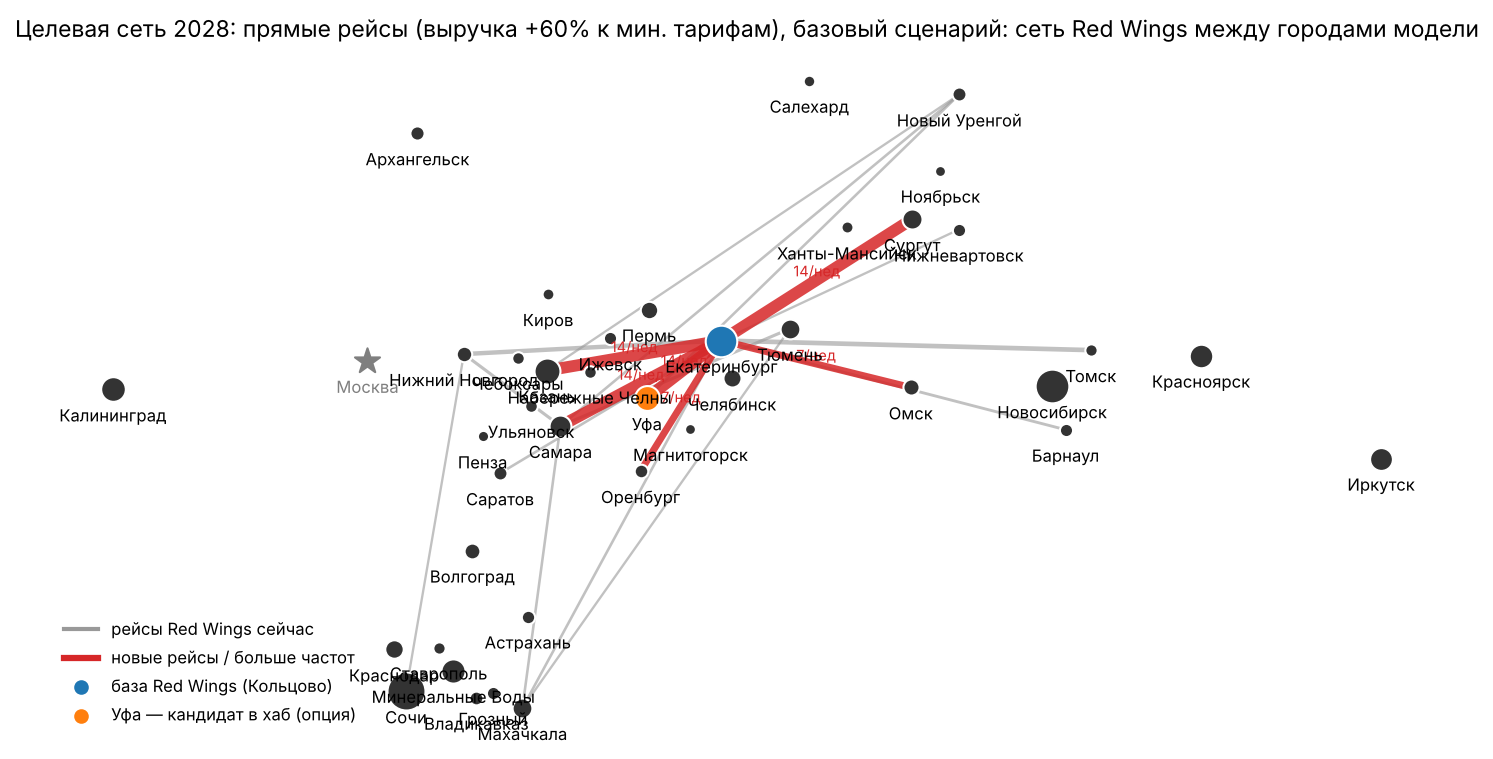
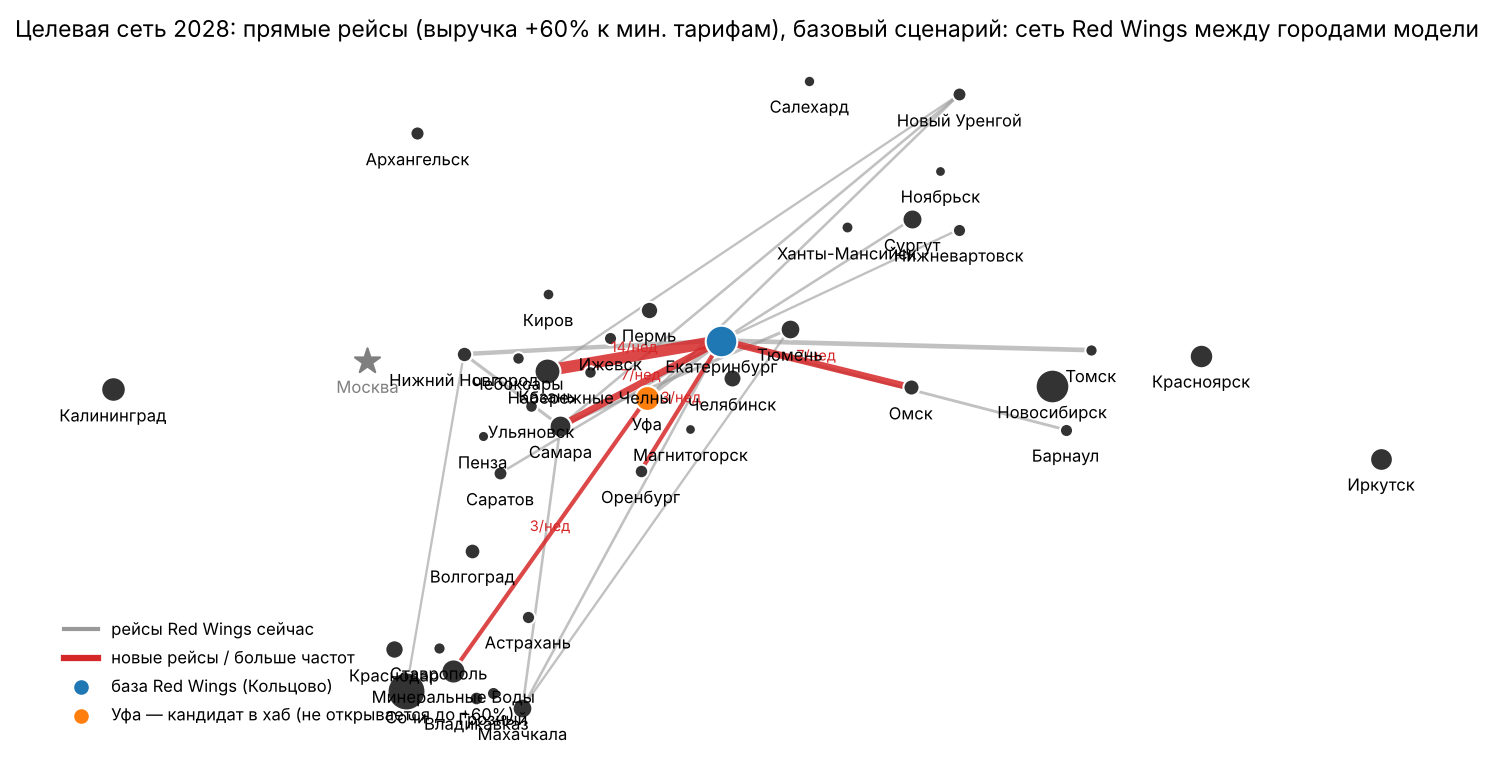
results: дорожная карта, карта целевой сети и отчёт по версии 2
Подписи на картинках обновлены: хаб не открывается до выручки +60%; Казань и Самара из Екатеринбурга не в перечне субсидий.

diff --git a/model/step8_roadmap.py b/model/step8_roadmap.py
@@ -1,6 +1,6 @@
 """
 Дорожная карта: как распределяются 4 новых SJ-100 до 2028 года — по условиям, а не по датам.
-Вариант — прямые рейсы (основа вывода: устойчивее хаба; хаб в Уфе — опция, см. подпись).
+Вариант — прямые рейсы (основа вывода: устойчивее хаба; в версии 2 хаб не открывается до выручки +60%).
 Цифры берутся из расчёта порогов (results/thresholds_доходность.csv), поэтому после пересчёта
 картинка обновляется сама.
 
@@ -88,10 +88,12 @@ def main():
                                          mutation_scale=18, color=BLUE, lw=1.6))
         prev = cur
     ax.text(0.3, 0.6, "Сейчас (выручка на уровне «Азимута», +15%) новые внутренние рейсы не окупаются — борта на международных линиях. "
-            f"Хаб в {hub} — только как опция: даёт +0,04…0,14 млрд сверх прямых и лишь на маршрутах Utair; Самара не окупается.",
+            "Новый хаб не открывается ни в одном проверенном городе до выручки +60%.",
             fontsize=9.5, color=MUTED)
     ax.text(0.3, 0.25, "Выручка Red Wings на пассажира к мин. тарифам АТОР («Азимут» ≈ +15%, средняя по Red Wings с международными ≈ +70%). "
             "Прибыль — с субсидиями ПП № 1242.", fontsize=9.5, color=MUTED)
+    ax.text(0.3, -0.1, "Казань и Самара из Екатеринбурга сейчас не в перечне субсидий: без субсидии шаг 1 окупается с +45%. "
+            "Минводы–Уфа не выдерживает ответа «Азимута» (results/check_competitor.csv).", fontsize=9.5, color=MUTED)
     out = RESULTS / "roadmap.png"
     fig.savefig(out, bbox_inches="tight", facecolor="white"); plt.close(fig)
     print(f"Дорожная карта: {out.relative_to(RESULTS.parent)}")

diff --git a/model/step8_map.py b/model/step8_map.py
@@ -58,7 +58,7 @@ def draw(mode, airports, s0):
     ax.plot([], [], color="#999999", lw=2, label="рейсы Red Wings сейчас")
     ax.plot([], [], color="#d62728", lw=3, label="новые рейсы / больше частот")
     ax.scatter([], [], color="#1f77b4", label="база Red Wings (Кольцово)")
-    ax.scatter([], [], color="#ff7f0e", label=f"{airports.at[P['hub_city'], 'город']} — кандидат в хаб (опция)")
+    ax.scatter([], [], color="#ff7f0e", label=f"{airports.at[P['hub_city'], 'город']} — кандидат в хаб (не открывается до +60%)")
     ax.legend(loc="lower left", fontsize=8, frameon=False)
     ax.set_title(f"{TITLES[mode]}, базовый сценарий: сеть Red Wings между городами модели", fontsize=11)
     ax.set_aspect("equal"); ax.axis("off")
